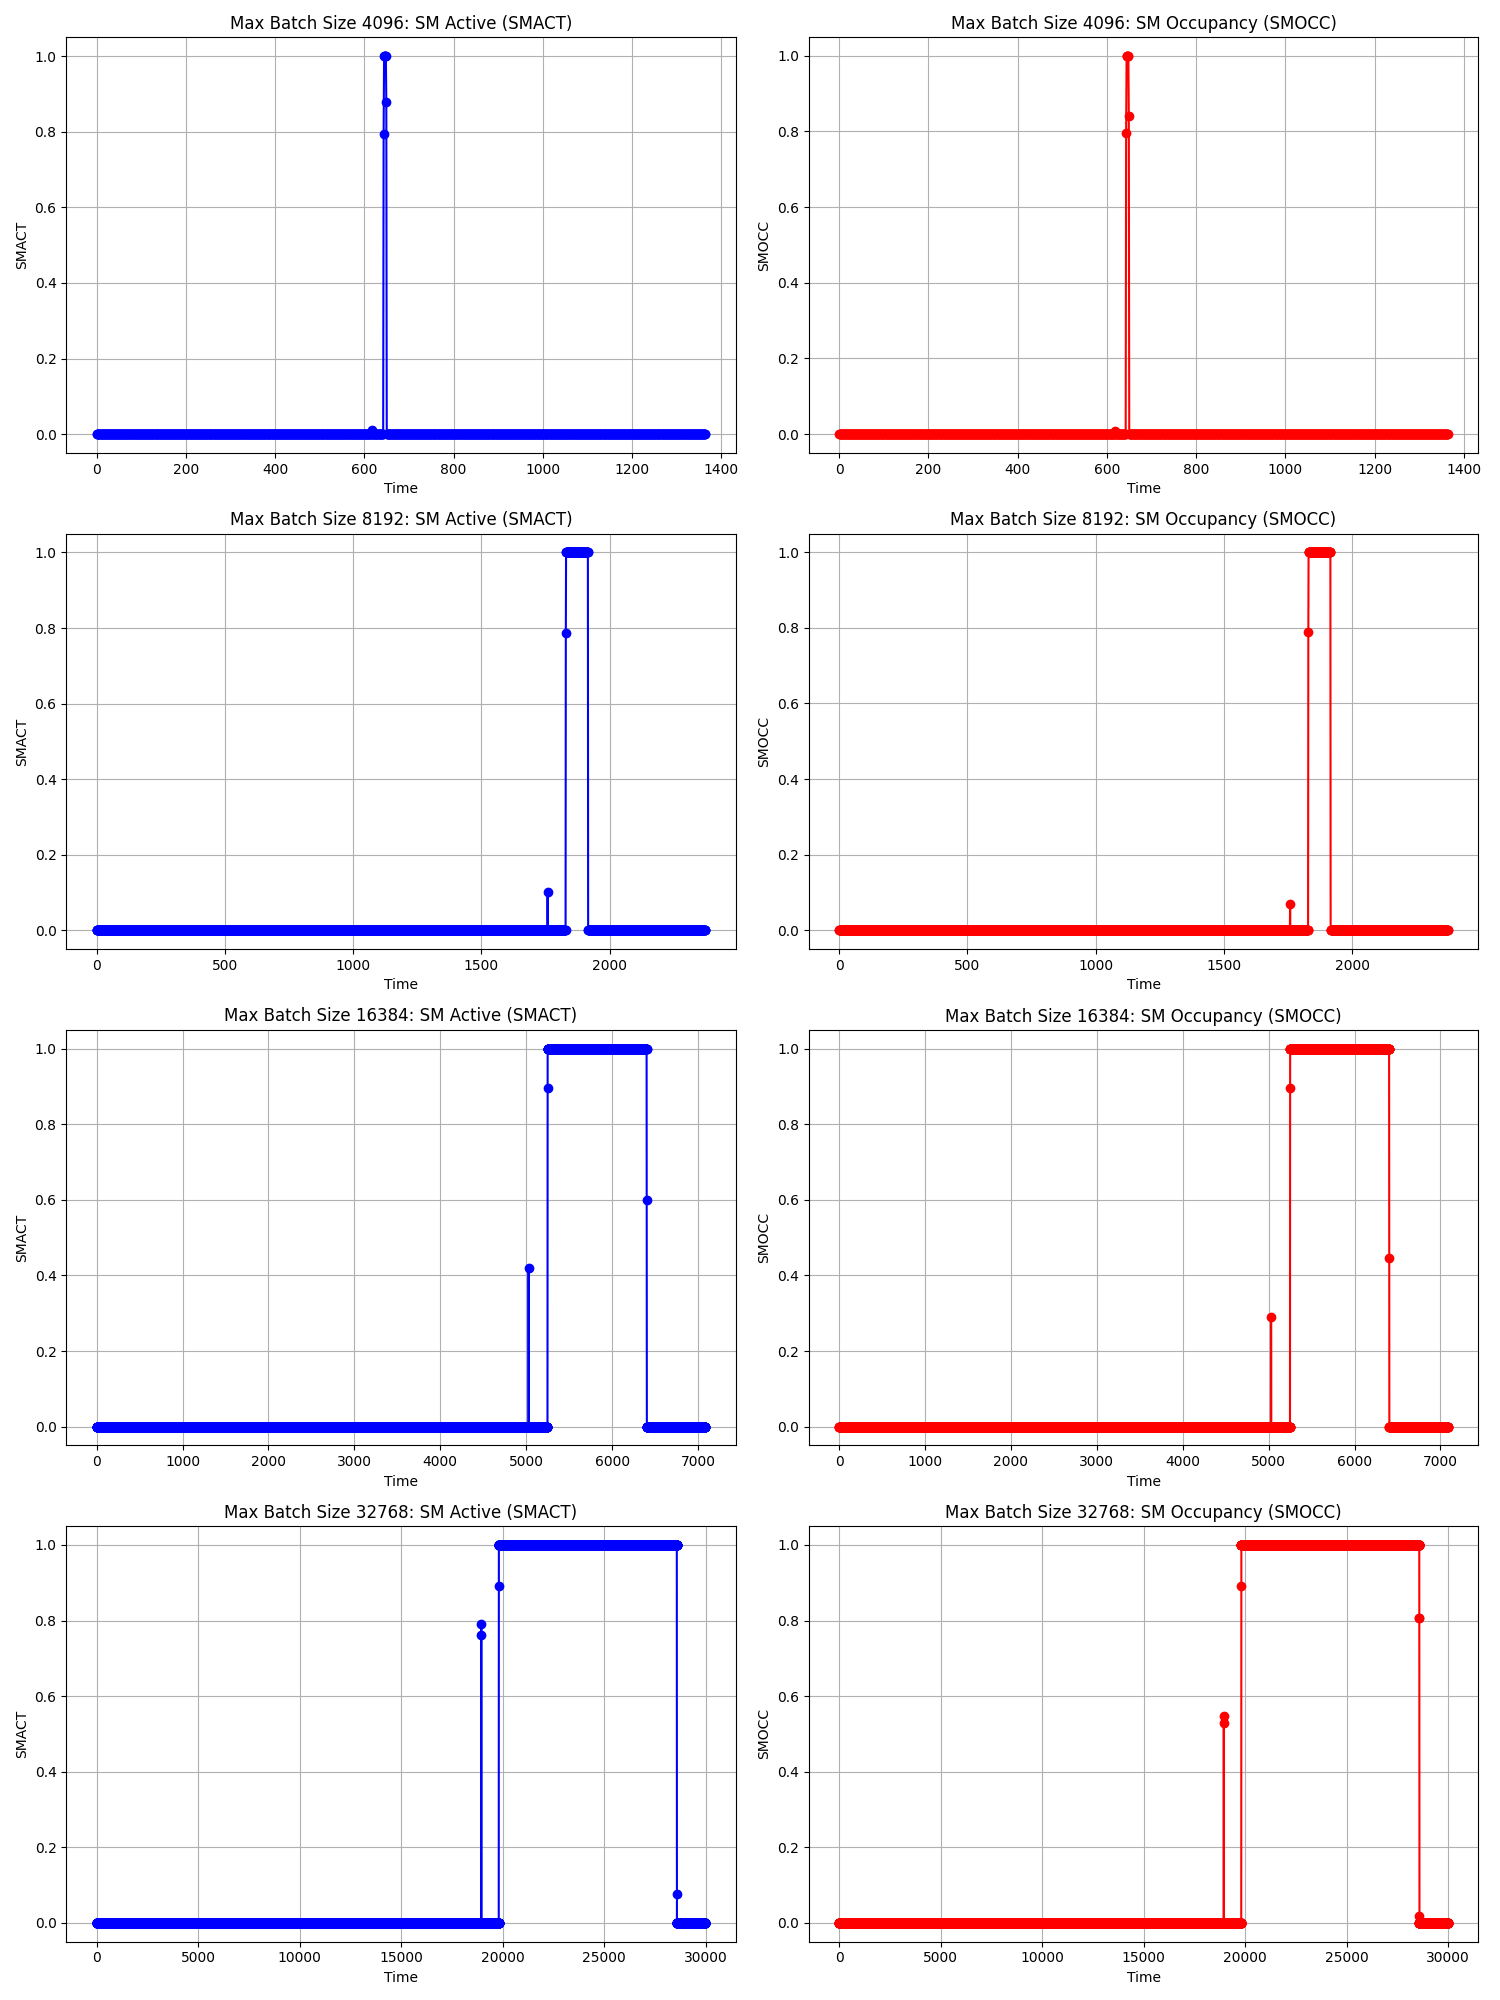
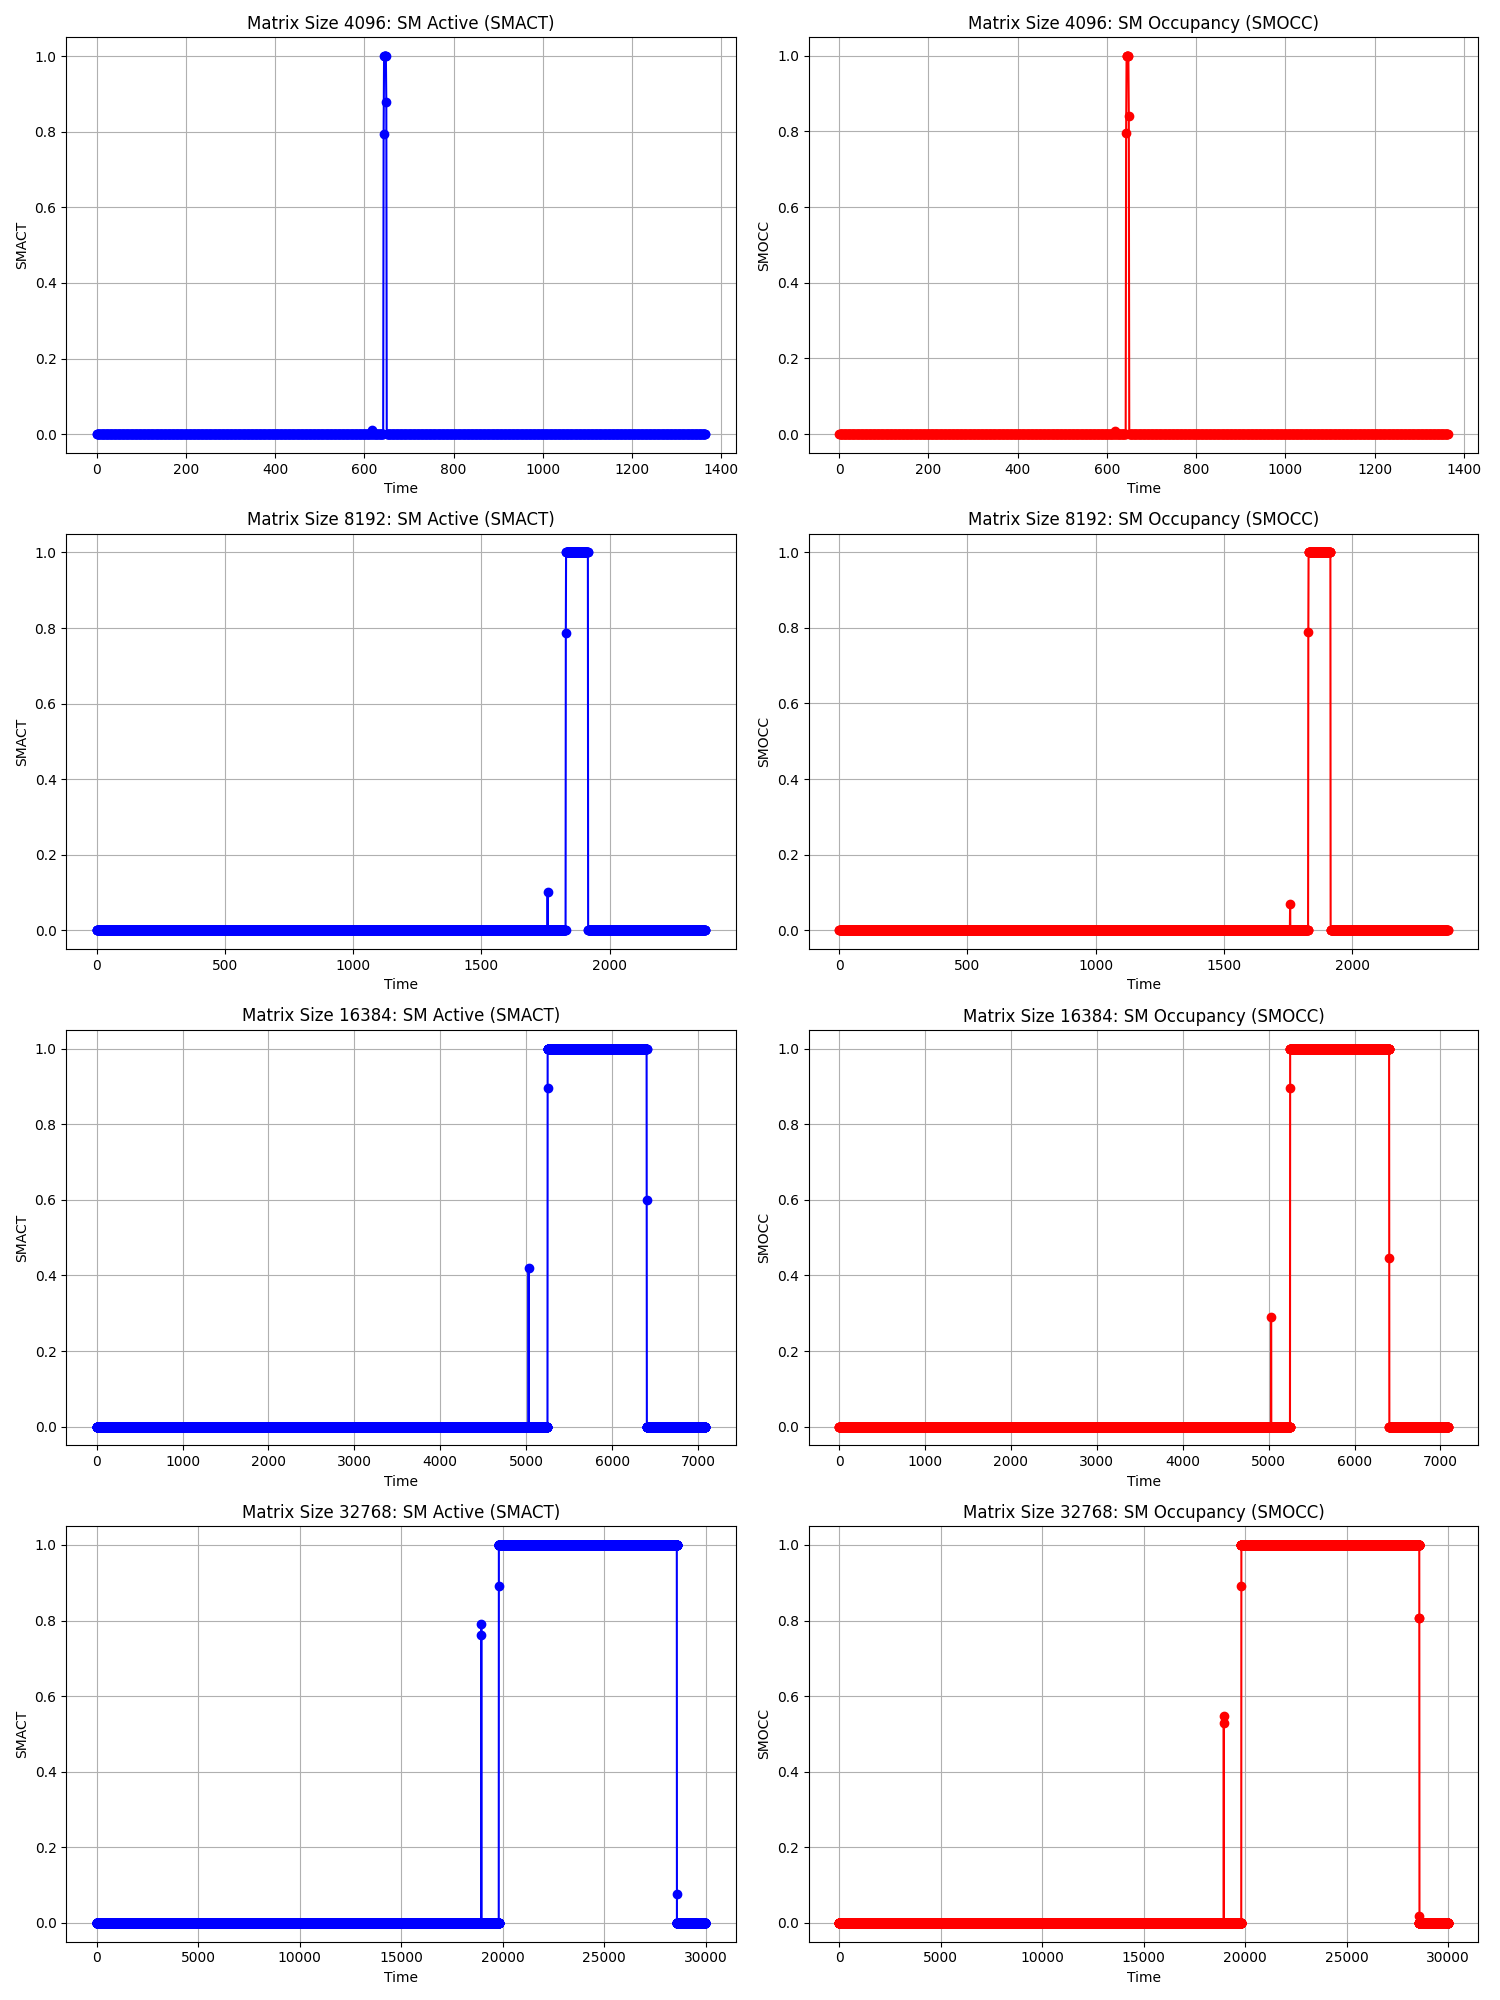
img-title-updated

diff --git a/code/matmul/try.py b/code/matmul/try.py
@@ -29,7 +29,7 @@ for i, file_path in enumerate(files):
     # --- Plot SMACT ---
     ax1 = axes[i, 0]
     ax1.plot(df["SMACT"], marker='o', linestyle='-', color='b')
-    ax1.set_title(f"Max Batch Size {batch_size}: SM Active (SMACT)")
+    ax1.set_title(f"Matrix Size {batch_size}: SM Active (SMACT)")
     ax1.set_xlabel("Time")
     ax1.set_ylabel("SMACT")
     ax1.grid(True)
@@ -37,7 +37,7 @@ for i, file_path in enumerate(files):
     # --- Plot SMOCC ---
     ax2 = axes[i, 1]
     ax2.plot(df["SMOCC"], marker='o', linestyle='-', color='r')
-    ax2.set_title(f"Max Batch Size {batch_size}: SM Occupancy (SMOCC)")
+    ax2.set_title(f"Matrix Size {batch_size}: SM Occupancy (SMOCC)")
     ax2.set_xlabel("Time")
     ax2.set_ylabel("SMOCC")
     ax2.grid(True)
